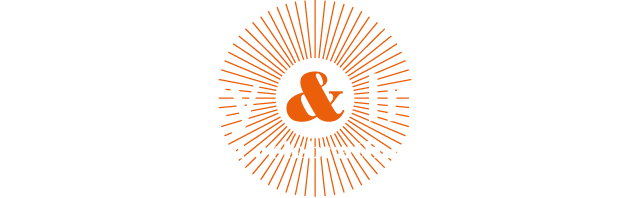
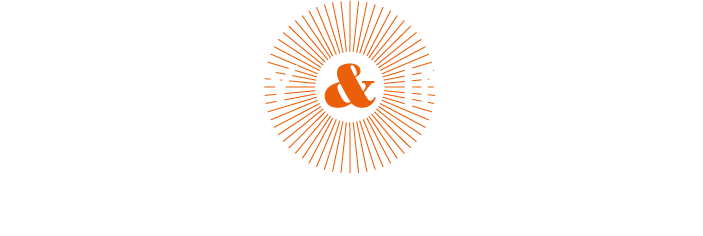
Added some new images and changed some fonts

Changed region(s): [[0.3291, 0.0, 0.6583, 1.0]]

diff --git a/style.css b/style.css
@@ -334,7 +334,7 @@ object {
 
   #recentUpdates h5{
      color: #444;
-    font-family: "Open Sans",sans-serif;
+font-family: "chaparral-pro",sans-serif;
     font-size: 14px;
     border-bottom: 1px solid #eee;
     font-style: bold;
@@ -399,7 +399,7 @@ clear:right;
 
 .slides .caption {
 
-width:635px; height:198px;
+width:703px; height:236px;
 text-indent: 100%;
 white-space: nowrap;
 overflow: hidden; 
@@ -531,6 +531,7 @@ margin-bottom: 1em;
 
 
 .icon-block h5{
+  font-family: "chaparral-pro",sans-serif;
     text-align: left;
     font-size: 2em;
 }
@@ -573,7 +574,7 @@ margin-bottom: 1em;
 .activityFeed h4, .activityFeed h5, .activityFeed{
   color:#23282d;
   font-size: 14px;
-  font-family: "franklin-gothic-urw-cond",sans-serif;
+  font-family: "franklin-gothic-urw",sans-serif;
 }
 
 .card{
@@ -651,12 +652,20 @@ background-color: #F1F1EF;
 }
 
 .page-footer h5{
+font-family: "chaparral-pro",sans-serif;
+
 }
 
 
 .nav .nav-column h5, .nav .nav-column h4, .nav .nav-column a {
         margin-left:1em;
-font-family: "franklin-gothic-urw-cond",sans-serif;
+font-family: "chaparral-pro",sans-serif;
+  color:#002359;
+  }
+
+.nav .nav-column h5 {
+        margin-left:1em;
+
   color:#002359;
   }
  
@@ -678,7 +687,7 @@ font-family: "franklin-gothic-urw-cond",sans-serif;
 
 .noLinkHeader, .card-title{
 
-font-family: "franklin-gothic-urw-cond",sans-serif;
+font-family: "franklin-gothic-urw",sans-serif;
 }
 
 
@@ -703,11 +712,11 @@ a{
 }
 
 body{  
-font-family: "franklin-gothic-urw-cond",sans-serif;
+font-family: "franklin-gothic-urw",sans-serif;
 }
 
 .header, .parallax-container h1{
-font-family: "franklin-gothic-urw-cond",sans-serif;
+font-family: "franklin-gothic-urw",sans-serif;
       font-style: bold !important;
 
 }
@@ -742,7 +751,7 @@ font-family: "franklin-gothic-urw-cond",sans-serif;
 }
 
 #mega-menu, h1, h2, h3, h4, h5, .parallax-container h5{
-font-family: "franklin-gothic-urw-cond",sans-serif;
+font-family: "franklin-gothic-urw",sans-serif;
 
 }
 
@@ -840,7 +849,7 @@ footer.page-footer {
 .collapsible li a{
   color:#fff;
   text-decoration: none;
-  font-family: "franklin-gothic-urw-cond",sans-serif;
+  font-family: "franklin-gothic-urw",sans-serif;
 }
  
  .collapsible .collapsible .collapsible-header{
@@ -851,7 +860,7 @@ margin:0;
 
  .card .card-title{
   font-size: 2em;
-  font-family: "franklin-gothic-urw-cond",sans-serif;
+  font-family: "franklin-gothic-urw",sans-serif;
  }
 
 

diff --git a/front-page.php b/front-page.php
@@ -18,7 +18,7 @@ get_header(); ?>
     <div class="slider">
     <ul class="slides">
       <li>
-        <img src="<?php bloginfo('template_directory'); ?>/images/staff_10.png"> <!-- random image -->
+        <img src="<?php bloginfo('template_directory'); ?>/images/staff_15.png"> <!-- random image -->
         <div class="caption center-align" id="title1">
           <h3>Diversity &amp; Inclusion</h3>
           <h5 class="light grey-text text-lighten-3">Encouraging and celebrating our differences.</h5>
@@ -26,7 +26,7 @@ get_header(); ?>
         </div>
       </li>
       <li>
-        <img src="<?php bloginfo('template_directory'); ?>/images/staff_2.png"> <!-- random image -->
+        <img src="<?php bloginfo('template_directory'); ?>/images/staff_16.png"> <!-- random image -->
         <div class="caption left-align" id="title2">
           <h3>Integrity</h3>
           <h5 class="light grey-text text-lighten-3">Being honest, open, fair, and trustworthy.</h5>
